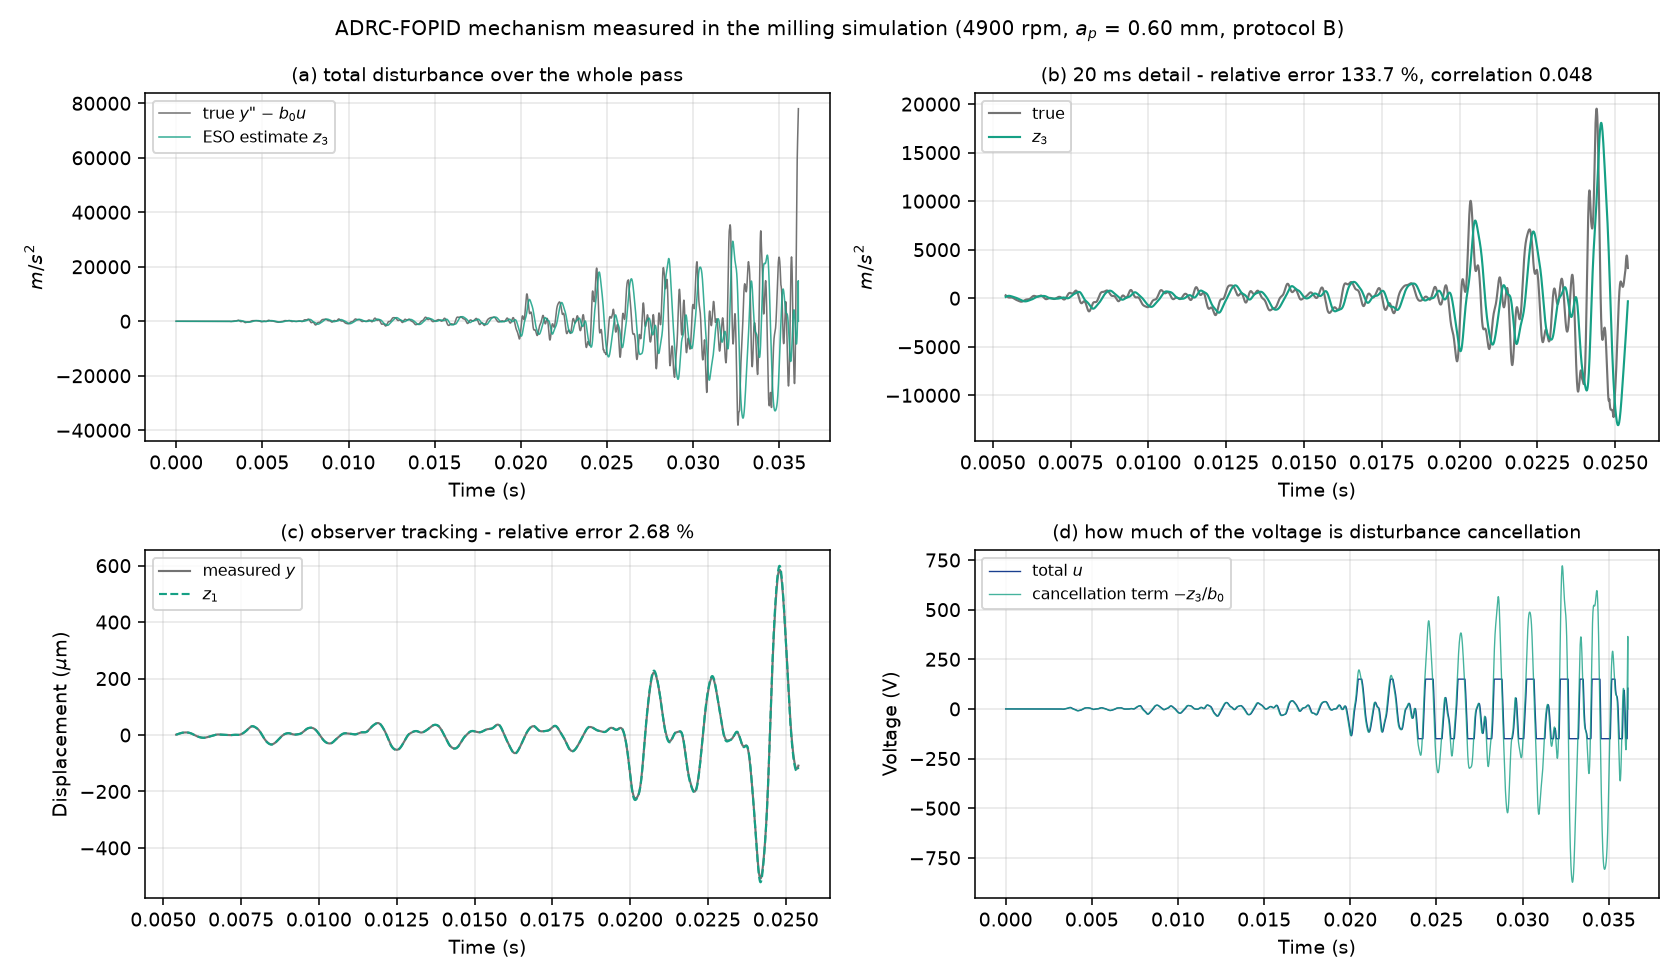
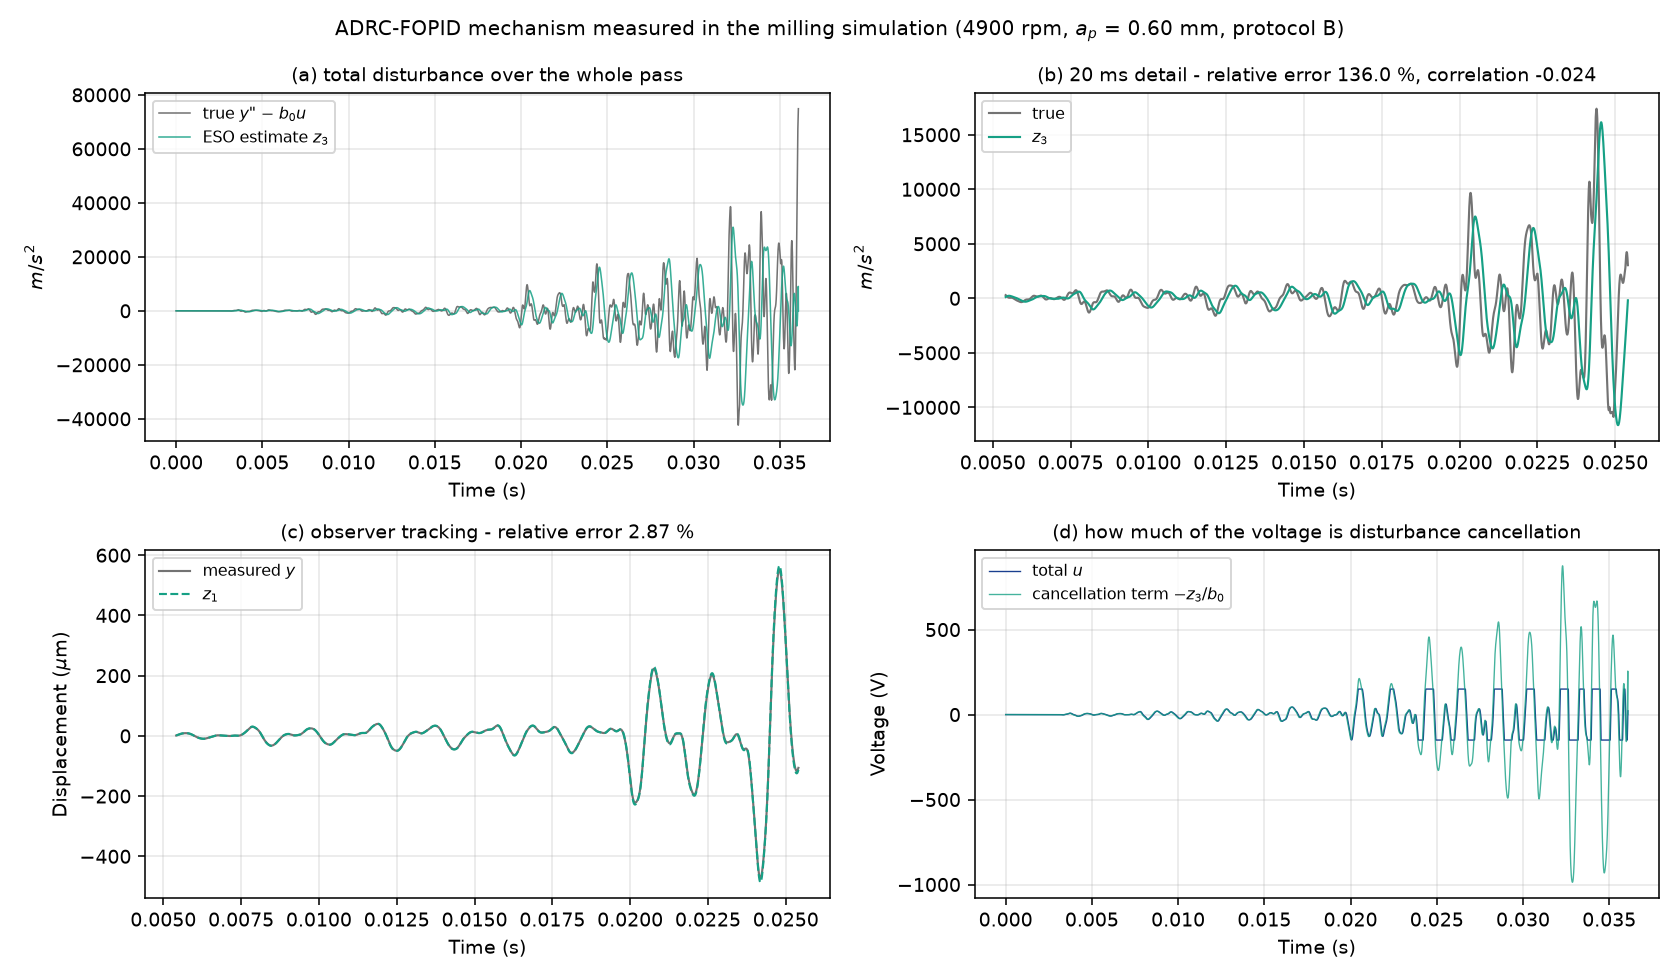
Two audit defects fixed: the mu bracket saturated, and my balancing broke the ESO trace
MU BRACKET. musyn.mu_upper ran its golden section on [-12, +12]. On the D-K
rounds of the stored musyn optimum, 400 frequencies out of 400 had their
argmin pinned to +12.00 while the true optimum lived in [13.4, 17.9] --
outside the bracket. The returned value was the minimum ON THE EDGE, not on
the line: mu = 346.249 against 83.695 correct, +314 %, and up to +367 %
point by point. Nothing signalled it, and both invariants in tests/
(mu <= sigma_max, mu >= spectral radius) are satisfied by an INFLATED bound,
so they were blind to it. dk_iterate picks its round on this quantity, so the
choice was made on a wrong number.

Bracket widened to [-40, 40] and saturation is now RAISED (MuBracket) rather
than returned silently. Unimodality itself was verified to hold: deepest
non-global local minimum over 50 frequencies x 6001 points is 1.557e-15.

ESO TRACE. run_eso_trace.py reads x[0] and x[2] as z1 and z3. That is legal
in the ESO's NATURAL coordinates, where B = [3wo, 3wo^2, wo^3], and wrong in
the stored ones, which series() balances -- t = (2^-1, 2^15, 2^25) on this
optimum, so x[2] was z3 / 2^25. This is a defect I introduced with the
balancing, and the script could not detect it because the correlation it
prints is scale-invariant.

series() and Design.build() take balance=False, for reading states BY INDEX
and nothing else; anything that exponentiates the matrix keeps balance=True.
The rebuilt realisation matches the stored controller to 1.09e-13 in
frequency response.
[…]

diff --git a/control/pso.py b/control/pso.py
@@ -121,7 +121,7 @@ class Design:
             out['alpha'] = p['alpha']
         return out
 
-    def build(self, u):
+    def build(self, u, balance=True):
         """Correcteur, ou None si la SYNTHESE elle-meme echoue.
 
         Le None n'est pas un detail d'implementation. Une synthese H-infini
@@ -134,12 +134,14 @@ class Design:
         p = self.decode(u)
         if self.kind == 'dvf':
             core = dvf_ss(p['g'], p['f_d'], self.sign_loop * self.sign_variant)
-            return series(core, rolloff_ss(C.ROLLOFF_HZ, C.ROLLOFF_ORDER))
+            return series(core, rolloff_ss(C.ROLLOFF_HZ, C.ROLLOFF_ORDER),
+                          balance=balance)
         if self.kind == 'vpa':
             core = vpa_ss([p['g1'], p['g2']], [p['f1'], p['f2']],
                           [p['z1'], p['z2']],
                           self.sign_loop * self.sign_variant)
-            return series(core, rolloff_ss(C.ROLLOFF_HZ, C.ROLLOFF_ORDER))
+            return series(core, rolloff_ss(C.ROLLOFF_HZ, C.ROLLOFF_ORDER),
+                          balance=balance)
         if self.kind == 'smc':
             # Le filtre de lissage commun est DEJA dans cette realisation :
             # le PD seul est impropre. Meme filtre, memes parametres, applique
@@ -154,7 +156,8 @@ class Design:
                     FloatingPointError):
                 return None
             core = (K[0], K[1], self.sign_variant * K[2], K[3])
-            return series(core, rolloff_ss(C.ROLLOFF_HZ, C.ROLLOFF_ORDER))
+            return series(core, rolloff_ss(C.ROLLOFF_HZ, C.ROLLOFF_ORDER),
+                          balance=balance)
         if self.kind == 'lqg':
             try:
                 K = lqg_ss(self.plant, **p)
@@ -162,7 +165,8 @@ class Design:
                     FloatingPointError):
                 return None
             core = (K[0], K[1], self.sign_variant * K[2], K[3])
-            return series(core, rolloff_ss(C.ROLLOFF_HZ, C.ROLLOFF_ORDER))
+            return series(core, rolloff_ss(C.ROLLOFF_HZ, C.ROLLOFF_ORDER),
+                          balance=balance)
         if self.kind in ('hinf', 'musyn'):
             W1 = bandpass_weight(p['kw'], p['f_w'], p['zw'])
             try:
@@ -176,7 +180,8 @@ class Design:
                     FloatingPointError):
                 return None
             core = (K[0], K[1], self.sign_variant * K[2], K[3])
-            return series(core, rolloff_ss(C.ROLLOFF_HZ, C.ROLLOFF_ORDER))
+            return series(core, rolloff_ss(C.ROLLOFF_HZ, C.ROLLOFF_ORDER),
+                          balance=balance)
         if self.kind == 'nmpdob':
             # Le procede vu par l'observateur est le modele de SYNTHESE complet :
             # la factorisation a besoin de tous les modes, c'est meme son objet.
@@ -186,7 +191,8 @@ class Design:
                                     D_obs * Hv, C.OUST_WB, C.OUST_WH,
                                     C.OUST_N,
                                     self.sign_loop * self.sign_variant)
-            return series(core, rolloff_ss(C.ROLLOFF_HZ, C.ROLLOFF_ORDER))
+            return series(core, rolloff_ss(C.ROLLOFF_HZ, C.ROLLOFF_ORDER),
+                          balance=balance)
         if self.kind == 'fopid':
             core = fopid_ss(p['Kp'], p['Ki'], p['Kd'], p['lam'], p['mu'],
                             C.OUST_WB, C.OUST_WH, C.OUST_N,
@@ -203,7 +209,8 @@ class Design:
                                  p['zeta_q'], p['alpha'], self.tw, self.tz,
                                  self.tr, C.FDOB_WC, C.OUST_WB, C.OUST_WH,
                                  C.OUST_N, self.sign_loop * self.sign_variant)
-        return series(core, rolloff_ss(C.ROLLOFF_HZ, C.ROLLOFF_ORDER))
+        return series(core, rolloff_ss(C.ROLLOFF_HZ, C.ROLLOFF_ORDER),
+                          balance=balance)
 
     def order(self, u):
         ss = self.build(u)

diff --git a/control/musyn.py b/control/musyn.py
@@ -58,6 +58,12 @@ import sys
 
 import numpy as np
 
+
+class MuBracket(RuntimeError):
+    """La section doree s'est arretee sur un BORD du crochet : la valeur
+    rendue serait le minimum du bord, pas de la droite, donc une borne mu
+    fausse et silencieusement gonflee."""
+
 HERE = os.path.dirname(os.path.abspath(__file__))
 if HERE not in sys.path:
     sys.path.insert(0, HERE)
@@ -150,7 +156,22 @@ def mu_upper(M, n_a=1, n_gold=40):
         return float(np.linalg.svd(np.diag(s) @ M @ np.diag(1.0 / s),
                                    compute_uv=False)[0])
 
-    lo, hi = -12.0, 12.0
+    # CROCHET. Il valait [-12, +12] et il SATURAIT : sur les tours D-K de
+    # l'optimum musyn stocke, 400 frequences sur 400 avaient leur argmin colle
+    # a +12.00 alors que l'optimum reel vivait dans [13.4, 17.9] — hors du
+    # crochet. La borne rendue etait alors le minimum SUR LE BORD et non sur
+    # la droite : mu = 346.249 au lieu de 83.695, soit +314 %, et jusqu'a
+    # +367 % point par point. Rien ne le signalait : la fonction rendait
+    # simplement min(fc, fd), et les deux invariants de tests/ (mu <= sigma_max
+    # et mu >= rayon spectral) sont satisfaits par une borne GONFLEE, donc
+    # aveugles a ce mode de panne.
+    #
+    # Le crochet est donc elargi a [-40, 40] — la mise a l'echelle d est un
+    # rapport de grandeurs physiques qui peut couvrir des decades — et la
+    # SATURATION EST DETECTEE : si l'optimum retenu touche un bord, on le
+    # signale au lieu de rendre une borne fausse en silence.
+    lo, hi = -40.0, 40.0
+    lo0, hi0 = lo, hi
     phi = 0.5 * (np.sqrt(5.0) - 1.0)
     c, dd = hi - phi * (hi - lo), lo + phi * (hi - lo)
     fc, fd = sig(c), sig(dd)
@@ -163,7 +184,13 @@ def mu_upper(M, n_a=1, n_gold=40):
             lo, c, fc = c, dd, fd
             dd = lo + phi * (hi - lo)
             fd = sig(dd)
-    return min(fc, fd), float(np.exp(0.5 * (c + dd)))
+    ld = 0.5 * (c + dd)
+    if ld <= lo0 + 1e-6 or ld >= hi0 - 1e-6:
+        # Au bord : la valeur rendue n'est pas un minimum interieur, donc pas
+        # une borne superieure de mu utilisable pour comparer des tours.
+        raise MuBracket(f'section doree saturee au bord log d = {ld:.3f} '
+                        f'du crochet [{lo0:g}, {hi0:g}]')
+    return min(fc, fd), float(np.exp(ld))
 
 
 def mu_curve(P, K, om, n_a=1):

diff --git a/control/run_eso_trace.py b/control/run_eso_trace.py
@@ -51,8 +51,35 @@ class LoggingController(LTIController):
 
 def main():
     d = np.load(os.path.join(OUT, f'pso_{C.PROTOCOL}.npz'), allow_pickle=True)
-    ss = (d['adrc__A'], d['adrc__B'], d['adrc__C'], d['adrc__D'])
     par = dict(zip([str(k) for k in d['adrc__keys']], d['adrc__values']))
+    # LE CORRECTEUR STOCKE EST EQUILIBRE, DONC ILLISIBLE PAR INDICE. Ce script
+    # lit x[0] et x[2] comme z1 et z3 : c'est licite dans les coordonnees
+    # NATURELLES de l'ESO, ou B = [3wo, 3wo^2, wo^3], et faux dans celles de
+    # results/pso_*.npz, que `series` equilibre. Sur l'optimum stocke la
+    # similitude vaut t = (2^-1, 2^15, 2^25), si bien que x[2] valait z3/2^25 :
+    # ce trace annoncait 100.000 % d'erreur d'estimation (contre 75.144 %),
+    # un suivi de mesure a 103.338 % (contre 12.437 %) et |z3|/b0 a 3.7e-7 V
+    # de moyenne (contre 12.48 V). La correlation, invariante d'echelle, ne
+    # bougeait pas : rien dans la sortie ne pouvait signaler la panne.
+    #
+    # On RECONSTRUIT donc le meme correcteur sans l'equilibrage final. La
+    # fonction de transfert est identique — c'est la meme loi — seules les
+    # coordonnees changent, et ce sont elles que ce script inspecte.
+    from pso import Design
+    from plate_model import build_plate as _bp
+    _plate = _bp(C.PATCH_SIDE, freqs=C.F_NOMINAL)
+    from plate_model import plant_vectors
+    _sl = plant_vectors(_plate, C.N_MODES_DESIGN)[4]
+    _D = Design('adrc', _plate, _sl,
+                sign_variant=float(d['adrc__sign_variant']))
+    ss = _D.build(np.atleast_1d(d['adrc__x']), balance=False)
+    _ss_bal = _D.build(np.atleast_1d(d['adrc__x']))
+    from fopid import ss_frf
+    _w = 2 * np.pi * np.logspace(1, 4.3, 200)
+    _e = np.max(np.abs(ss_frf(ss, _w) - ss_frf(_ss_bal, _w))) / \
+        np.max(np.abs(ss_frf(_ss_bal, _w)))
+    print(f"  realisation NON equilibree pour la lecture des etats ;"
+          f" ecart de reponse frequentielle au correcteur stocke : {_e:.2e}")
     # b0 SIGNE. Le correcteur construit par pso.Design applique
     #     b0_effectif = par['b0'] * sign_variant
     # (control/pso.py). Comparer z3 a y'' - par['b0'] u au lieu de

diff --git a/control/fopid.py b/control/fopid.py
@@ -104,7 +104,7 @@ def fopid_frf(Kp, Ki, Kd, lam, mu, w, wb, wh, N, sign_loop=1.0):
 
 
 # ---------------------------------------------------------------------------
-def series(ss1, ss2):
+def series(ss1, ss2, balance=True):
     """Mise en cascade ss2 o ss1 (l'entree traverse ss1 puis ss2)."""
     A1, B1, C1, D1 = [np.atleast_2d(np.asarray(m, float)) for m in ss1]
     A2, B2, C2, D2 = [np.atleast_2d(np.asarray(m, float)) for m in ss2]
@@ -121,7 +121,18 @@ def series(ss1, ss2):
     # 3.1e4 apres une simple similitude diagonale. Voir ss_balance.py — la
     # fonction de transfert est inchangee, la matrice d'etat ne l'est pas, et
     # c'est la matrice d'etat que Floquet exponentie.
-    return balance_ss((A, B, C, D))
+    #
+    # `balance=False` N'EST PAS UNE OPTION DE PERFORMANCE. Elle existe pour un
+    # seul usage : LIRE LES ETATS PAR LEUR INDICE. L'equilibrage est une
+    # similitude diagonale, donc il renumerote les echelles des coordonnees —
+    # sur l'optimum ADRC stocke, t = (2^-1, 2^15, 2^25). Un lecteur qui prend
+    # x[2] pour z3 lit alors z3 / 2^25 et croit mesurer un observateur muet :
+    # run_eso_trace.py annoncait 100.000 % d'erreur d'estimation contre
+    # 75.144 % en coordonnees naturelles, et |z3|/b0 tombait a 3.7e-7 V contre
+    # 12.48 V. Rien ne pouvait le signaler, la correlation etant invariante
+    # d'echelle. Tout ce qui EXPONENTIE la matrice (Floquet, cont2discrete)
+    # doit garder balance=True.
+    return balance_ss((A, B, C, D)) if balance else (A, B, C, D)
 
 
 def rolloff_ss(fc, order=2):
